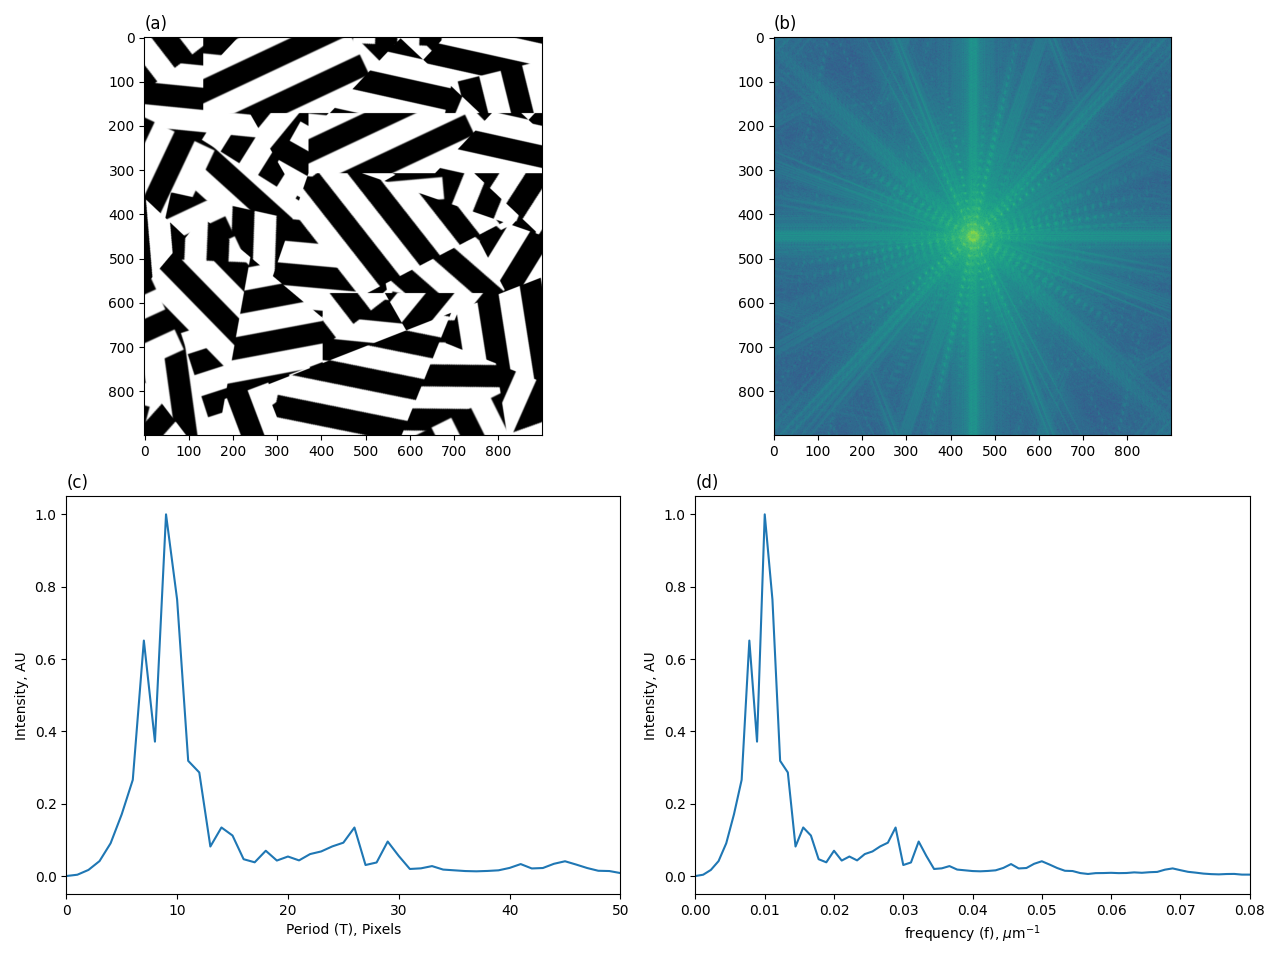
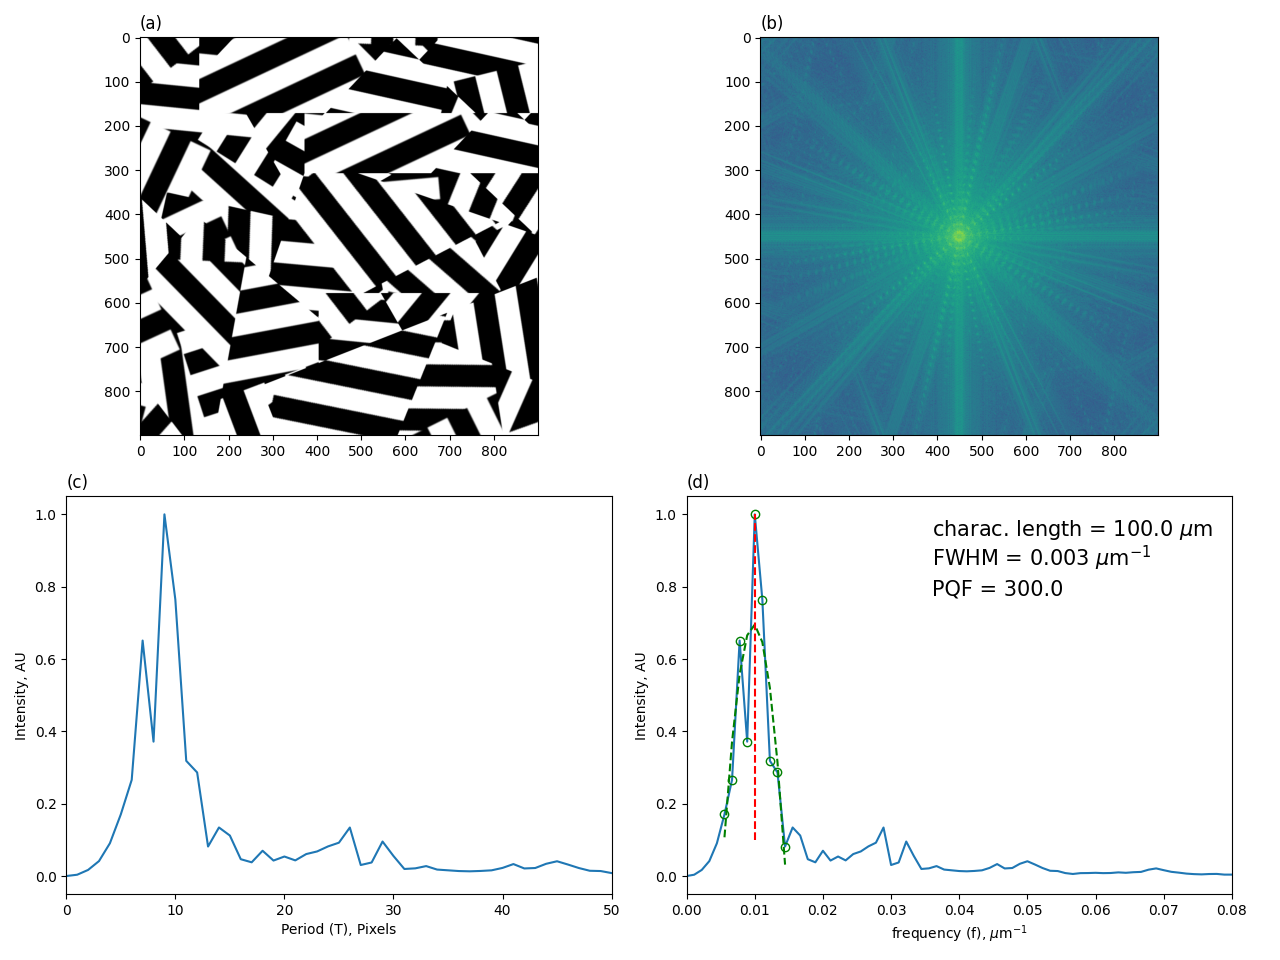
added FWHM and PQF to tesselation test cases

diff --git a/test_cases/synthetic_images/tessellation_fragmented/src/tessellation_fragmented.py b/test_cases/synthetic_images/tessellation_fragmented/src/tessellation_fragmented.py
@@ -9,7 +9,7 @@
 import numpy as np
 import matplotlib.pyplot as plt
 from skimage import io
-from surfacetools.periodicfeatures import radially_averaged_PSD
+from surfacetools.periodicfeatures import radially_averaged_PSD, full_width_half_max, peak_quality_factor
 
 # import fragmented tessellation image in gray-scale
 img_tessellation_fragmented = io.imread("images/tessellation_fragmented.png", as_gray=True)
@@ -45,6 +45,23 @@ if dconv: rasp_norm = np.divide(rasp_norm,lam[:rasp_length])
 # transform to absolute units (AU) using maximum intensity
 rasp_norm_au = rasp_norm/np.max(rasp_norm)
 
+#############################################################################################
+# curve fit
+# population 1
+ind = np.where(np.logical_and((1/lam>0.005),(1/lam<0.015)))
+x_pop1 = 1/lam[ind]                 # 1/um
+y_pop1 = rasp_norm_au[ind]          # AU
+
+deg = 2                             # quadratic poly
+z = np.polyfit(x_pop1,y_pop1,deg)   # polynomial coeff
+p = np.poly1d(z)
+mdl_pop1 = p(x_pop1)
+pop1_feature_size = x_pop1[np.where(mdl_pop1 == np.max(mdl_pop1))]  # 1/um
+
+fwhm = full_width_half_max(x_pop1,y_pop1)
+print("FWHM = " + str(fwhm))
+pqf = peak_quality_factor(y_pop1, fwhm)
+print("PQF = " + str(pqf))
 
 # ---
 # Visualization
@@ -74,11 +91,20 @@ axs[1,0].set_xlabel("Period (T), Pixels")
 axs[1,0].set_xlim([0,50])
 
 axs[1,1].plot(1/lam[:rasp_length],rasp_norm_au)
+axs[1,1].plot(x_pop1,y_pop1,linestyle='none',marker='o',fillstyle='none',color='green')
+axs[1,1].plot(x_pop1,mdl_pop1,linestyle='--',color='green')
+axs[1,1].vlines(pop1_feature_size,ymin=0.1,ymax=1,linestyle='--',color='red')
 axs[1,1].set_title("(d)", loc='left')
 # axs[1,1].set_title("RASP in spatial frequency")
 axs[1,1].set_ylabel("Intensity, AU")
 axs[1,1].set_xlabel("frequency (f), $\mu$m$^{-1}$")
 axs[1,1].set_xlim([0,0.08])
+axs[1,1].annotate('charac. length = ' + str(np.around(1/pop1_feature_size[0],decimals=0)) + ' $\mu$m',
+                xy=(0.45,0.9), xycoords='axes fraction', fontsize=TEXTFONT)
+axs[1,1].annotate('FWHM = ' + str(np.around(fwhm,decimals=3)) + ' $\mu$m$^{-1}$',
+                xy=(0.45,0.825), xycoords='axes fraction', fontsize=TEXTFONT)
+axs[1,1].annotate('PQF = ' + str(np.around(pqf,decimals=0)),
+                xy=(0.45,0.75), xycoords='axes fraction', fontsize=TEXTFONT)
 
 f.tight_layout()
 f.savefig("figures/tessellation_fragmented_summary.png")

diff --git a/test_cases/synthetic_images/tessellation/src/tessellation.py b/test_cases/synthetic_images/tessellation/src/tessellation.py
@@ -9,7 +9,7 @@
 import numpy as np
 import matplotlib.pyplot as plt
 from skimage import io
-from surfacetools.periodicfeatures import radially_averaged_PSD
+from surfacetools.periodicfeatures import radially_averaged_PSD, full_width_half_max, peak_quality_factor
 
 # import tessellation image in gray-scale
 img_tessellation = io.imread("images/tessellation.png", as_gray=True)
@@ -45,6 +45,23 @@ if dconv: rasp_norm = np.divide(rasp_norm,lam[:rasp_length])
 # transform to absolute units (AU) using maximum intensity
 rasp_norm_au = rasp_norm/np.max(rasp_norm)
 
+#############################################################################################
+# curve fit
+# population 1
+ind = np.where(np.logical_and((1/lam>0.005),(1/lam<0.015)))
+x_pop1 = 1/lam[ind]                 # 1/um
+y_pop1 = rasp_norm_au[ind]          # AU
+
+deg = 2                             # quadratic poly
+z = np.polyfit(x_pop1,y_pop1,deg)   # polynomial coeff
+p = np.poly1d(z)
+mdl_pop1 = p(x_pop1)
+pop1_feature_size = x_pop1[np.where(mdl_pop1 == np.max(mdl_pop1))]  # 1/um
+
+fwhm = full_width_half_max(x_pop1,y_pop1)
+print("FWHM = " + str(fwhm))
+pqf = peak_quality_factor(y_pop1, fwhm)
+print("PQF = " + str(pqf))
 
 # ---
 # Visualization
@@ -74,12 +91,20 @@ axs[1,0].set_xlabel("Period (T), Pixels")
 axs[1,0].set_xlim([0,50])
 
 axs[1,1].plot(1/lam[:rasp_length],rasp_norm_au)
+axs[1,1].plot(x_pop1,y_pop1,linestyle='none',marker='o',fillstyle='none',color='green')
+axs[1,1].plot(x_pop1,mdl_pop1,linestyle='--',color='green')
+axs[1,1].vlines(pop1_feature_size,ymin=0.1,ymax=1,linestyle='--',color='red')
 axs[1,1].set_title("(d)", loc='left')
 # axs[1,1].set_title("RASP in spatial frequency")
 axs[1,1].set_ylabel("Intensity, AU")
 axs[1,1].set_xlabel("frequency (f), $\mu$m$^{-1}$")
 axs[1,1].set_xlim([0,0.08])
-
+axs[1,1].annotate('charac. length = ' + str(np.around(1/pop1_feature_size[0],decimals=0)) + ' $\mu$m',
+                xy=(0.45,0.9), xycoords='axes fraction', fontsize=TEXTFONT)
+axs[1,1].annotate('FWHM = ' + str(np.around(fwhm,decimals=3)) + ' $\mu$m$^{-1}$',
+                xy=(0.45,0.82), xycoords='axes fraction', fontsize=TEXTFONT)
+axs[1,1].annotate('PQF = ' + str(np.around(pqf,decimals=0)),
+                xy=(0.45,0.75), xycoords='axes fraction', fontsize=TEXTFONT)
 f.tight_layout()
 f.savefig("figures/tessellation_summary.png")
 
